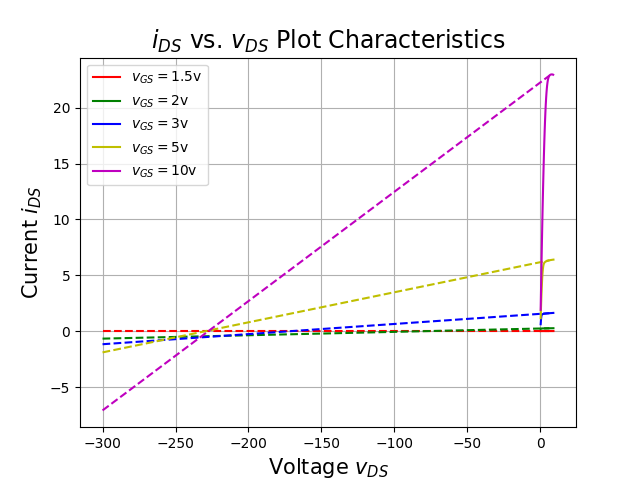
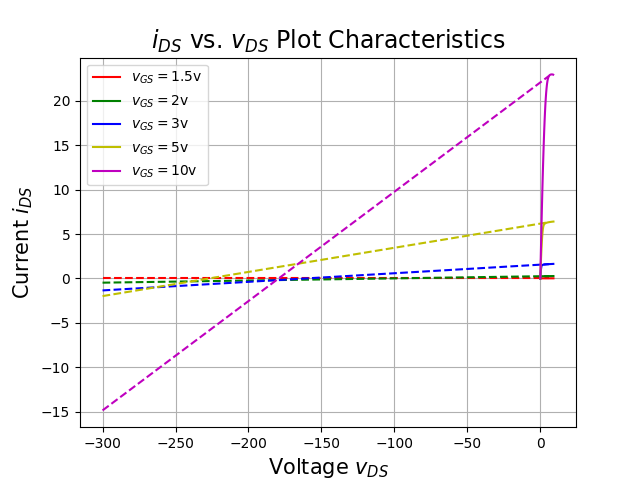
Added non-pandas version for task 1

diff --git a/src/task1_copy.py b/src/task1_copy.py
@@ -1,0 +1,90 @@
+import matplotlib.pyplot as plt
+import pandas as pd
+import numpy as np
+
+
+DATA_FOLDER = "../lab1_data/task1/"
+NFET_FILES = ["ngate1.5v.txt","ngate2v.txt", "ngate3v.txt", 
+              "ngate5v.txt", "ngate10v.txt"]
+PFET_FILES = ["pgate1.5v.txt","pgate2v.txt", "pgate3v.txt",
+             "pgate5v.txt", "pgate10v.txt"]
+
+COLORS = ["r","g","b","y","m"]
+INC = 0.25
+
+def line(x1, x2, y1, y2):    # Two-point formula for a straight line 
+    return lambda x: (y2-y1)*(x-x1)/(x2-x1) + y1      
+
+
+
+
+###### N-channel MOSFET transistor ######
+
+sat_i = int(6/INC) # Index for definite saturation of nfets. v_GS=6V-ish
+
+for j, nfet in enumerate(NFET_FILES):
+    v = []
+    i = []
+    with open(DATA_FOLDER+nfet, "r") as infile:
+        infile.readline()
+        infile.readline()
+        for file_line in infile:
+            data_list = file_line.split()
+            v.append( float( data_list[0].replace(",",".") ) )
+            i.append( float( data_list[1].replace(",",".") ) )
+    v = np.array(v)       
+    i = np.array(i)       
+    v = v[:-4];    i = i[:-4]  
+
+    iv_label = r"$v_{GS}=$"+nfet.replace("ngate","").replace(".txt","")
+    plt.plot(v, i, COLORS[j], label=iv_label)
+
+    v_early = np.linspace(-300, v[sat_i], 300)
+    early_line = line(v[sat_i],v[-8],i[sat_i],i[-8])   # v[-8] is experimentally tested to work fine for early voltage line
+    plt.plot(v_early, early_line(v_early), COLORS[j]+"--", label='_nolegend_' ) 
+
+plt.grid()
+plt.legend()
+plt.ylabel(r"Current $i_{DS}$", size=15)
+plt.xlabel(r"Voltage $v_{DS}$", size=15)
+plt.title(r"$i_{DS}$ vs. $v_{DS}$ Plot Characteristics", size=17)
+plt.savefig("nmos_early.png")
+plt.show()
+
+
+
+
+###### P-channel MOSFET transistor ######
+
+sat_i = int(7.5/INC) # Index for definite saturation of pfets. v_GS=-7.5V-ish
+
+for j, pfet in enumerate(PFET_FILES):
+    v = []
+    i = []
+    with open(DATA_FOLDER+pfet, "r") as infile:
+        infile.readline()
+        infile.readline()
+        for file_line in infile:
+            data_list = file_line.split()
+            v.append( float(data_list[0].replace(",",".")) )
+            i.append( float(data_list[1].replace(",",".")) )
+    v = np.array(v)       
+    i = np.array(i)    
+    v = v[:-4];    i = i[:-4]
+
+    iv_label = r"$v_{GS}=$"+pfet.replace("pgate","").replace(".txt","")
+    plt.plot(v, i, COLORS[j], label=iv_label)
+
+    v_early = np.linspace(v[sat_i], 40, 40)
+    early_line = line(v[-2],v[sat_i], i[-2],i[sat_i])
+    plt.plot(v_early, early_line(v_early), COLORS[j]+"--", label='_nolegend_' ) 
+
+plt.grid()
+plt.legend()
+plt.ylabel(r"Current $i_{DS}$", size=15)
+plt.xlabel(r"Voltage $v_{DS}$", size=15)
+plt.title(r"$i_{DS}$ vs. $v_{DS}$ Plot Characteristics", size=17)
+plt.gca().invert_xaxis()
+plt.gca().invert_yaxis()
+plt.savefig("pmos_early.png")
+plt.show()
